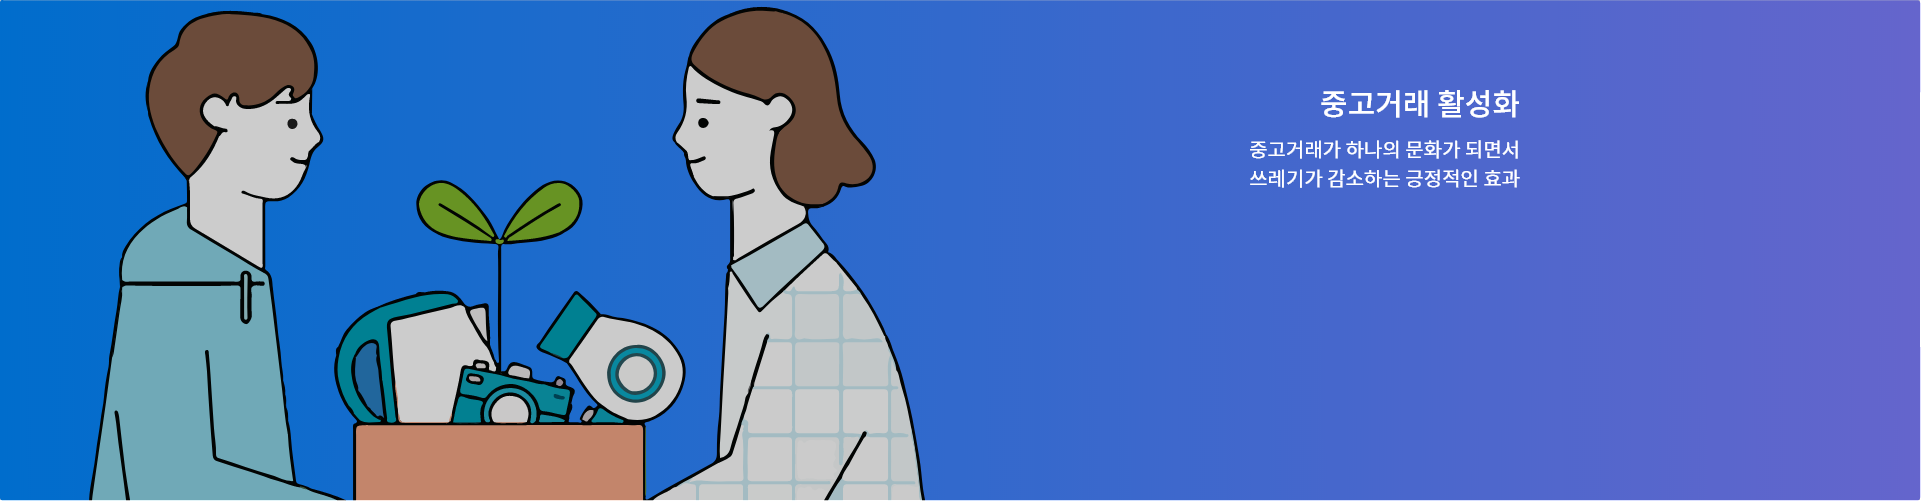
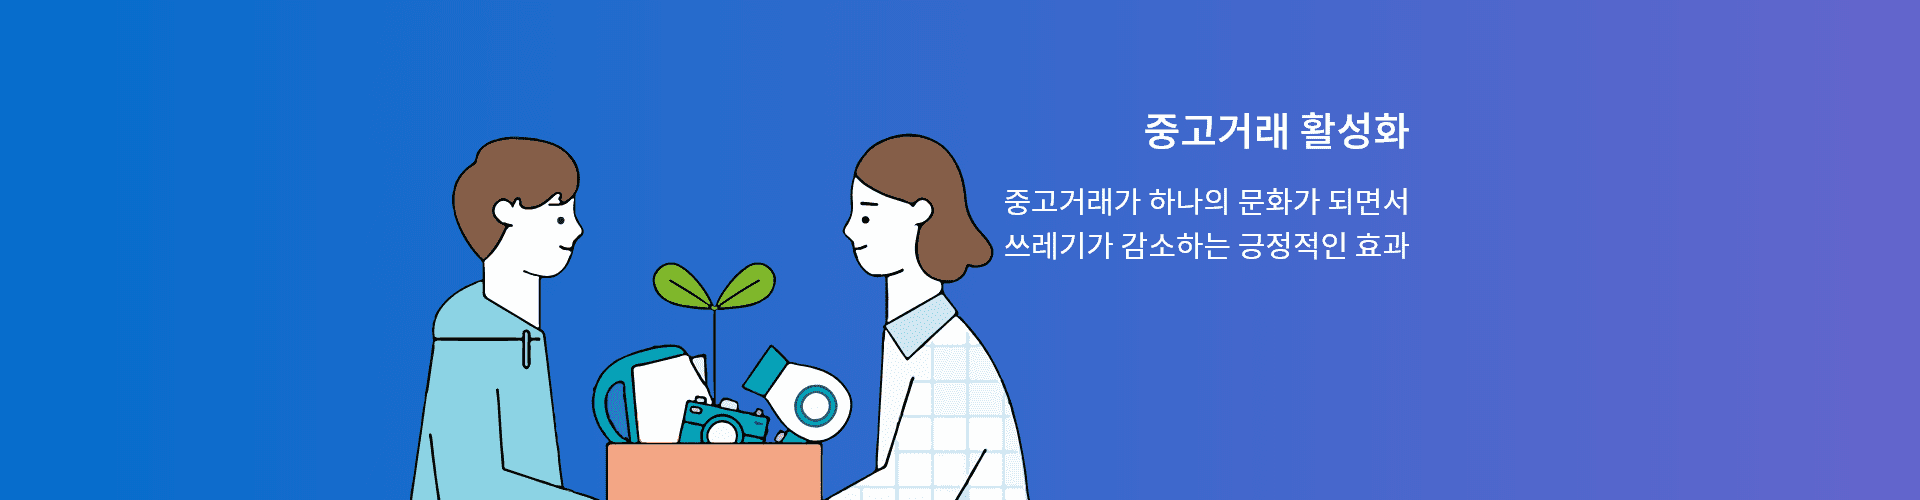
메인 이미지슬라이드 변경

diff --git a/bannerTest.html b/bannerTest.html
@@ -1,0 +1,109 @@
+<!DOCTYPE html>
+<html lang="en" dir="ltr">
+  <head>
+    <meta charset="utf-8">
+    <meta name="viewport" content="width=device-width, initial-scale=1.0">
+    <title></title>
+    <style media="screen">
+      body{
+        margin:0;
+      }
+      .wrapPage{
+        width:100%;
+        margin:0;
+      }
+      .bannerBox{
+        width:100%;
+      }
+      .bannerImgBox{
+        width:100%;
+      }
+      .bannerImgBox img {
+        width:100%;
+        height:auto;
+      }
+
+
+      .bannerBox2{
+        width:100%;
+
+      }
+      .bannerImgBox2{
+        width:100%;
+      }
+      .backImg{
+        background-size: cover;
+      }
+      @media only screen and (min-width: 1920px) {
+        .wrapPage{
+          width: 1920px;
+          margin: 0 auto;
+        }
+      }
+
+       @media only screen and (max-width: 768px) {
+        .bannerImgBox{
+          position: relative;
+          width:100%;
+          height:320px;
+          margin: 0 auto;
+          overflow: hidden;
+        }
+        .bannerImgBox img {
+          width:100%;
+          height:auto;
+          position: absolute;
+          top: 50%;
+          left: 50%;
+          transform: translate(-50%, -50%);
+          width: auto;
+          height: 100%;
+        }
+      }
+
+      /* @media only screen and (max-width: 768px) {
+       .bannerImgBox2{
+         width:100%;
+
+         margin: 0 auto;
+       }
+       .backImg{
+         background-size:cover;
+         background-position: 50% 50%;
+         height:320px;
+       }
+     } */
+    </style>
+  </head>
+  <body>
+    <div class="wrapPage">
+        <div class="bannerBox">
+          <div class="bannerImgBox">
+            <img src="img/slideimg_0.png" alt="">
+          </div>
+        </div>
+
+        <!-- <div class="bannerBox2">
+          <div class="bannerImgBox2">
+            <div class="backImg" style="background-image:url(./img/bannerImg_1.png)"></div>
+          </div>
+        </div> -->
+
+        <div class="contentBox">
+
+        </div>
+    </div>
+  </body>
+  <script type="text/javascript">
+    window.addEventListener("resize", test);
+    function test() {
+      var w_width = window.outerWidth;
+      if (w_width < 768) {
+        var want_height = w_width / 2.4;
+        document.querySelector(".bannerImgBox").style.height = want_height + "px";
+      }
+    }
+
+
+  </script>
+</html>

diff --git a/css/css_index.css b/css/css_index.css
@@ -357,6 +357,23 @@ a{text-decoration: none;}
   .textBox_1:nth-child(2),.textBox_1:nth-child(4){justify-self:start}
 }
 @media only screen and (max-width: 768px) {
+  .bx_img {
+    position: relative;
+    width:100%;
+    height:320px;
+    margin: 0 auto;
+    overflow: hidden;
+  }
+  .bx_img img {
+    width: auto!important;
+    height: 100%;
+    position: absolute;
+    top: 50%;
+    left: 50%;
+    transform: translate(-50%, -50%);
+  }
+
+
   html,body{font-size: 8px!important;}
   #selectMetro_box{flex-direction: column;height: 180px; top:0;left:0;position: inherit;margin: 0 auto;transform: none;margin-top: 3.0rem;padding: 3.0rem 4.0rem;}
   #selectMetro_box #bothFind_item {width: 100%}

diff --git a/index.php b/index.php
@@ -50,10 +50,10 @@ require_once('modules/db.php');
     <!-- 메인 배너이미지 부분 -->
     <div id="bannerImg_box">
       <div class="bxslider">
-        <div><img src="img\slideimg_0.png" alt=""></div>
-        <div><img src="img\slideimg_1.png" alt=""></div>
-        <div><img src="img\slideimg_2.png" alt=""></div>
-        <div><img src="img\slideimg_3.png" alt=""></div>
+        <div class="bx_img"><img src="img\slideimg_0.png" alt=""></div>
+        <div class="bx_img"><img src="img\slideimg_1.png" alt=""></div>
+        <div class="bx_img"><img src="img\slideimg_2.png" alt=""></div>
+        <div class="bx_img"><img src="img\slideimg_3.png" alt=""></div>
       </div>
       <!-- 이중select box 로 지하철역 선택하는 부분 -->
         <form  id="selectMetro_box" action="searchProduct.php" method="get">
@@ -296,6 +296,8 @@ require_once('modules/db.php');
 
     // 768px 일때 사이트 소개이미지파일 다른해상도 파일로 변경
     changeWidth_RecentProducts_gridbox(2);      // 최근상품 그리드박스 높이 정의
+
+    // setAllBannerImage();
   });
 
 
@@ -479,7 +481,8 @@ require_once('modules/db.php');
 
 
   function setAllBannerImage() {
-
+    var w_width = window.outerWidth;
+    var bannerImg_box_img = document.querySelector('.bxslider').getElementsByTagName('img');
     if (w_width <= 768) {
       for (var i = 0; i < bannerImg_box_img.length; i++) {
         bannerImg_box_img.item(i).src = bannerImg_box_img.item(i).src.slice(0,-4) + "_m.png";
@@ -487,8 +490,8 @@ require_once('modules/db.php');
     }else{
 
     }
-
   }
+
   var check_M = 0;
   //768px 때 서브배너이미지 변경 (모바일용으로)
   function changeSubBannerImge() {
@@ -541,12 +544,21 @@ require_once('modules/db.php');
   window.addEventListener("resize", changeContent);
 
     function changeContent() {
+      var w_width = window.outerWidth;
+      if (w_width < 768) {
+        var want_height = w_width / 2.4;
+        var bx_img_array= document.getElementsByClassName("bx_img");
+        for (var i = 0; i < bx_img_array.length; i++) {
+          bx_img_array.item(i).style.height = want_height + "px";
+        }
+      }
+
       if (document.getElementById('moreInfo_btn').dataset.tf=="0") {
         changeWidth_RecentProducts_gridbox(2);
       }else {
         changeWidth_RecentProducts_gridbox(4);
       }
-      changeSubBannerImge();
+      // changeSubBannerImge();
     }
 
 </script>
